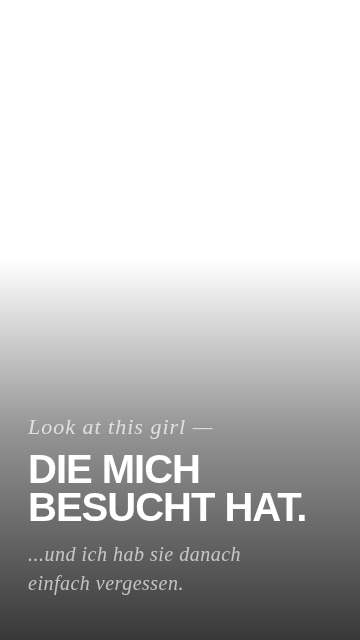
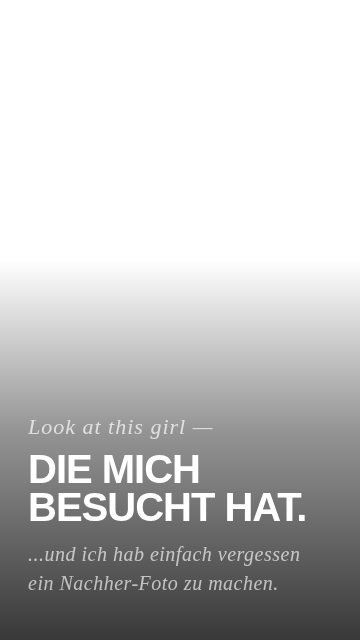
story-look-girl: update text to mention forgetting after-photo
https://claude.ai/code/session_01BaC8m9wAmbtKccXQSCmnYc

Changed region(s): [[0.1528, 0.8438, 0.825, 0.9375]]

diff --git a/story-look-girl.html b/story-look-girl.html
@@ -70,7 +70,7 @@
   <div class="text-block">
     <div class="greeting">Look at this girl —</div>
     <div class="main">die mich<br>besucht hat.</div>
-    <div class="accent">...und ich hab sie danach<br>einfach vergessen.</div>
+    <div class="accent">...und ich hab einfach vergessen<br>ein Nachher-Foto zu machen.</div>
   </div>
 </body>
 </html>
